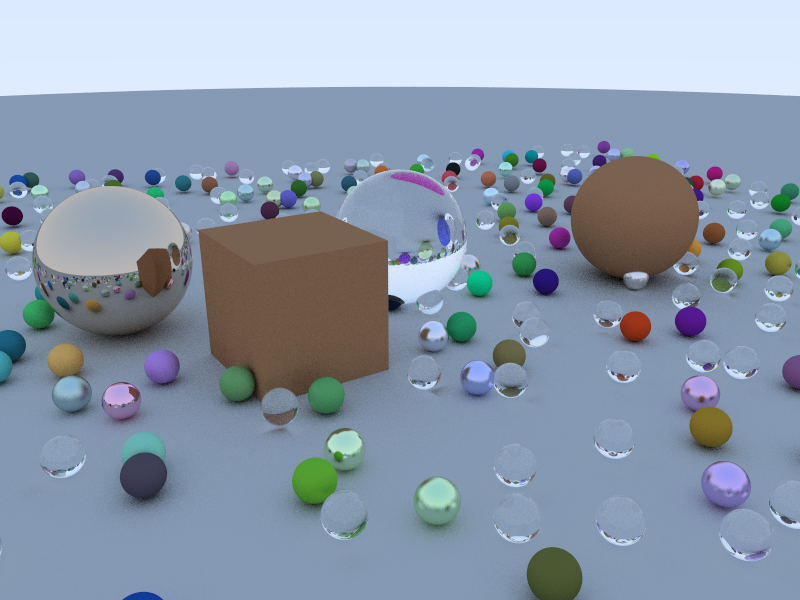
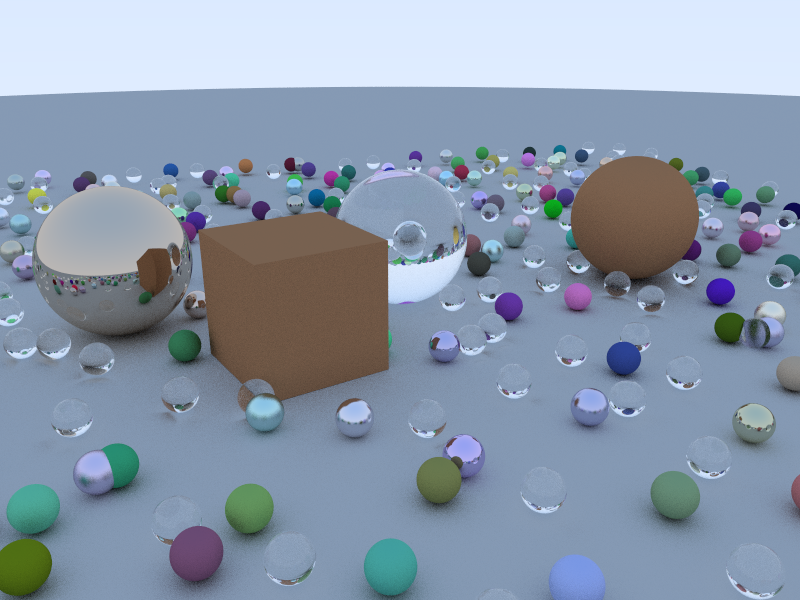
bvh tree

diff --git a/src/sprites/hittable_list.hpp b/src/sprites/hittable_list.hpp
@@ -4,38 +4,90 @@
 
 #pragma once
 #include "sprites/hittable.hpp"
+#include "common/utils.hpp"
 
 class HittableList: public Hittable {
 public:
     vector<shared_ptr<Hittable>> list;
+    vector<shared_ptr<AABBBox>> bvh_tree;
 
     HittableList() = default;
     ~HittableList() override = default;
 
     void AddHittable(const shared_ptr<Hittable>& hittable);
+
+    void BuildBVH();
     void Clear();
 
     bool Hit(const Ray &ray, float t_min, float t_max, HitRecord &hit) const override;
+    void GetAABBBox() override {};
+
+private:
+    int root = 1;
+    bool Hit(const Ray &ray, float t_min, float t_max, HitRecord &hit, int node, int l, int r) const;
+    void BuildBVH(int node, int left, int right);
 };
 
 void HittableList::AddHittable(const shared_ptr<Hittable>& hittable) {
+    hittable->GetAABBBox();
     list.push_back(hittable);
+}
+
+void HittableList::BuildBVH(int node, int l, int r) {
+    if (l == r) {
+        bvh_tree[node] = list[l]->box;
+        return;
+    }
+    int mid = (l + r) >> 1;
+    BuildBVH(node << 1, l, mid);
+    BuildBVH(node << 1 | 1, mid + 1, r);
+    auto b1 = bvh_tree[node << 1];
+    auto b2 = bvh_tree[node << 1 | 1];
+    auto box_left = utils::EleWiseMin(b1->box_left, b2->box_left);
+    auto box_right = utils::EleWiseMax(b1->box_right, b2->box_right);
+    bvh_tree[node] = std::make_shared<AABBBox>(box_left, box_right);
+}
+
+void HittableList::BuildBVH() {
+    std::sort(list.begin(), list.end(), [](const shared_ptr<Hittable> &h1, const shared_ptr<Hittable> &h2) {
+        return h1->box->GetCenter().x < h2->box->GetCenter().x;
+    });
+    bvh_tree.resize((list.size() << 1) + 50);
+    BuildBVH(root, 0, (int)list.size() - 1);
 }
 
 void HittableList::Clear() {
     list.clear();
 }
 
-bool HittableList::Hit(const Ray &ray, float t_min, float t_max, HitRecord &hit) const {
-    bool hit_any = false;
-    float t_smallest = 1e9;
-    for(const auto& hittable: list) {
-        HitRecord temp;
-        if (hittable->Hit(ray, t_min, t_max, temp) && temp.t < t_smallest) {
-            t_smallest = temp.t;
-            hit = temp;
-            hit_any = true;
-        }
+bool HittableList::Hit(const Ray &ray, float t_min, float t_max, HitRecord &hit, int node, int l, int r) const {
+    if (l == r) {
+        return list[l]->Hit(ray, t_min, t_max, hit);
     }
-    return hit_any;
+    if (bvh_tree[node]->Hit(ray, t_min, t_max)) {
+        HitRecord hit0, hit1;
+        int mid = (l + r) >> 1;
+        bool hit_l = Hit(ray, t_min, t_max, hit0, node << 1, l, mid);
+        bool hit_r = Hit(ray, t_min, t_max, hit1, node << 1 | 1, mid + 1, r);
+        if (hit_l && hit_r)     hit = hit0.t < hit1.t ? hit0 : hit1;
+        else if (hit_l)         hit = hit0;
+        else if (hit_r)         hit = hit1;
+        return (hit_l || hit_r);
+    }
+    return false;
+}
+
+bool HittableList::Hit(const Ray &ray, float t_min, float t_max, HitRecord &hit) const {
+    return Hit(ray, t_min, t_max, hit, root, 0, (int)list.size() - 1);
+//    bool hit_any = false;
+//    float t_smallest = 1e9;
+//    for(const auto& hittable: list) {
+//        HitRecord temp;
+//        if (hittable->Hit(ray, t_min, t_max, temp) && temp.t < t_smallest) {
+//            t_smallest = temp.t;
+//            hit = temp;
+//            hit_any = true;
+//        }
+//    }
+//    return hit_any;
 }

diff --git a/src/sprites/mesh.hpp b/src/sprites/mesh.hpp
@@ -14,18 +14,23 @@
 
 class Mesh: public Hittable {
 private:
+    vector<int> ranks; //排序用
     void ProcessNode(aiNode *node, const aiScene *scene);
     void ProcessMesh(aiMesh *mesh, const aiScene *scene);
+
 public:
     shared_ptr<Material> material;
     VertexArr vertices;
     IndiceArr indices;
+    int num_vertices{};
+    int num_faces{};
 
     Mesh(const std::string& path, const shared_ptr<Material>& material);
     ~Mesh() override = default;
 
     bool HitTriangle(const Ray &ray, float t_min, float t_max, HitRecord &hit, Vertex p0, Vertex p1, Vertex p2, glm::vec3 normal) const;
     bool Hit(const Ray &ray, float t_min, float t_max, HitRecord &hit) const override;
+    void GetAABBBox() override;
 };
 
 Mesh::Mesh(const std::string &path, const shared_ptr<Material> &material): material(material) {
@@ -36,6 +41,20 @@ Mesh::Mesh(const std::string &path, const shared_ptr<Material> &material): mater
     }
     //this->directory = path.substr(0, path.find_last_of('/'));
     this->ProcessNode(scene->mRootNode, scene);
+//    this->num_vertices = (int)vertices.size();
+//    this->num_faces = (int)indices.size() / 3;
+//    for (int i = 0; i < num_faces; ++i)  ranks.push_back(i);
+//    auto face_center = [&](int index) {
+//        auto p0 = vertices[indices[index * 3 + 0]];
+//        auto p1 = vertices[indices[index * 3 + 1]];
+//        auto p2 = vertices[indices[index * 3 + 2]];
+//        return (p0.position + p1.position + p2.position) / 3.0f;
+//    };
+//    std::sort(ranks.begin(), ranks.end(), [&](const int r1, const int r2) {
+//        auto c0 = face_center(ranks[r1]);
+//        auto c1 = face_center(ranks[r2]);
+//        return c0.x < c1.x;
+//    });
     importer.FreeScene();
 }
 
@@ -122,4 +141,14 @@ bool Mesh::Hit(const Ray &ray, float t_min, float t_max, HitRecord &hit) const {
         }
     }
     return hit_any;
+}
+
+void Mesh::GetAABBBox() {
+    auto box_left = glm::vec3(1e9);
+    auto box_right = glm::vec3(0.0f);
+    for(const auto &vertex: vertices) {
+        box_left = utils::EleWiseMin(box_left, vertex.position);
+        box_right = utils::EleWiseMax(box_right, vertex.position);
+    }
+    this->box = std::make_shared<AABBBox>(box_left, box_right);
 }

diff --git a/src/sprites/aabb_box.hpp b/src/sprites/aabb_box.hpp
@@ -1,0 +1,29 @@
+//
+// Created by syq on 23-8-28.
+//
+
+#pragma once
+
+class AABBBox {
+public:
+    glm::vec3 box_left;
+    glm::vec3 box_right;
+    AABBBox(glm::vec3 box_left, glm::vec3 box_right): box_left(box_left), box_right(box_right) {}
+    glm::vec3 GetCenter() const {
+        return (box_left + box_right) / 2.0f;
+    }
+    bool Hit(const Ray &ray, float t_min, float t_max);
+};
+
+bool AABBBox::Hit(const Ray &ray, float t_min, float t_max) {
+    for(int i = 0; i < 3; ++i) {
+        float t0 = (box_left[i] - ray.origin[i]) / ray.direction[i];
+        float t1 = (box_right[i] - ray.origin[i]) / ray.direction[i];
+        if (t0 > t1) {
+            std::swap(t0, t1);
+        }
+        t_min = std::max(t_min, t0);
+        t_max = std::min(t_max, t1);
+    }
+    return (t_min < t_max);
+}

diff --git a/src/sprites/sphere.hpp b/src/sprites/sphere.hpp
@@ -16,6 +16,7 @@ public:
     ~Sphere() override = default;
 
     bool Hit(const Ray &ray, float t_min, float t_max, HitRecord &hit) const override;
+    void GetAABBBox() override;
 };
 
 bool Sphere::Hit(const Ray &ray, float t_min, float t_max, HitRecord &hit) const {
@@ -47,4 +48,8 @@ bool Sphere::Hit(const Ray &ray, float t_min, float t_max, HitRecord &hit) const
         }
     }
     return false;
+}
+
+void Sphere::GetAABBBox() {
+    this->box = std::make_shared<AABBBox>(center - glm::vec3(radius), center + glm::vec3(radius));
 }

diff --git a/src/common/utils.hpp b/src/common/utils.hpp
@@ -37,6 +37,14 @@ namespace utils {
         v1.insert(v1.end(), v2.begin(), v2.end());
     }
 
+    glm::vec3 EleWiseMin(glm::vec3 v1, glm::vec3 v2) {
+        return glm::vec3(std::min(v1.x, v2.x), std::min(v1.y, v2.y), std::min(v1.z, v2.z));
+    }
+
+    glm::vec3 EleWiseMax(glm::vec3 v1, glm::vec3 v2) {
+        return glm::vec3(std::max(v1.x, v2.x), std::max(v1.y, v2.y), std::max(v1.z, v2.z));
+    };
+
     void ShowProgressRate(float rate) {
         static std::mutex mtx;
         std::lock_guard<std::mutex> lock(mtx);

diff --git a/src/sprites/hittable.hpp b/src/sprites/hittable.hpp
@@ -4,6 +4,7 @@
 
 #pragma once
 #include "core/ray.hpp"
+#include "sprites/aabb_box.hpp"
 
 struct Material;
 
@@ -16,7 +17,9 @@ struct HitRecord {
 
 class Hittable {
 public:
+    shared_ptr<AABBBox> box;
     Hittable() = default;
     virtual ~Hittable() = default;
     virtual bool Hit(const Ray &ray, float t_min, float t_max, HitRecord &hit) const = 0;
+    virtual void GetAABBBox() = 0;
 };

diff --git a/src/core/tracer.hpp b/src/core/tracer.hpp
@@ -94,6 +94,7 @@ auto Tracer::RandomScene() {
 
 void Tracer::Render() {
     auto world = RandomScene();
+    world->BuildBVH();
     auto camera_pos = glm::vec3(3.0f, 4.0f, 10.0f);
     Camera camera(camera_pos, glm::vec3(0.0f));
 
